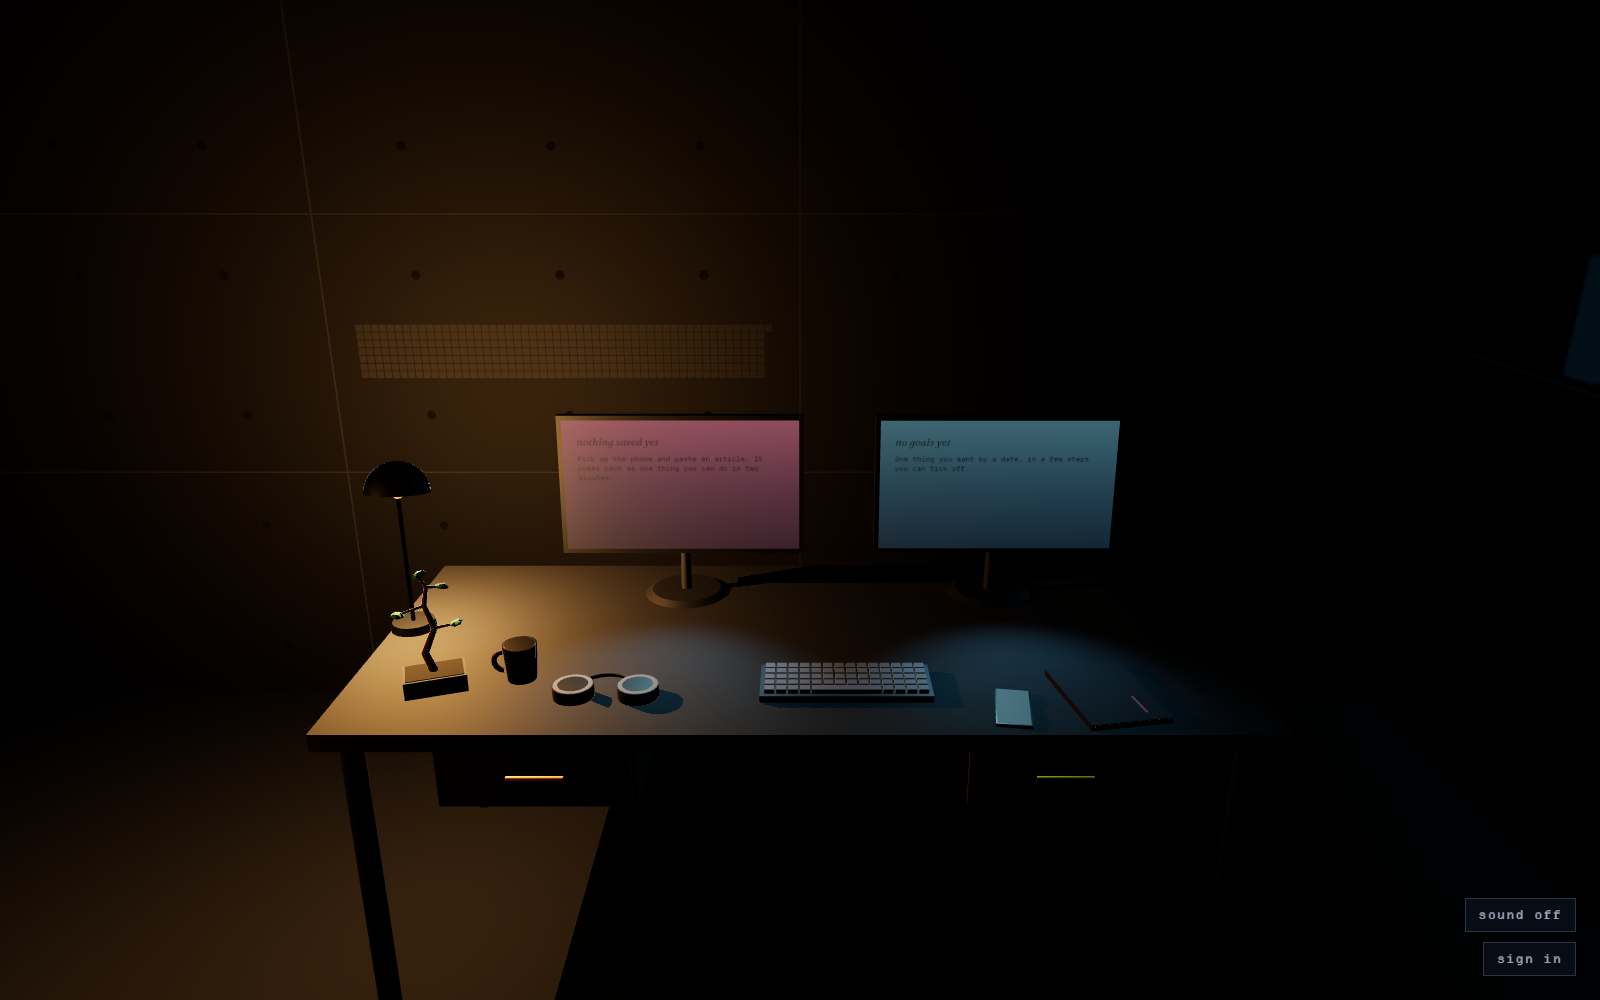
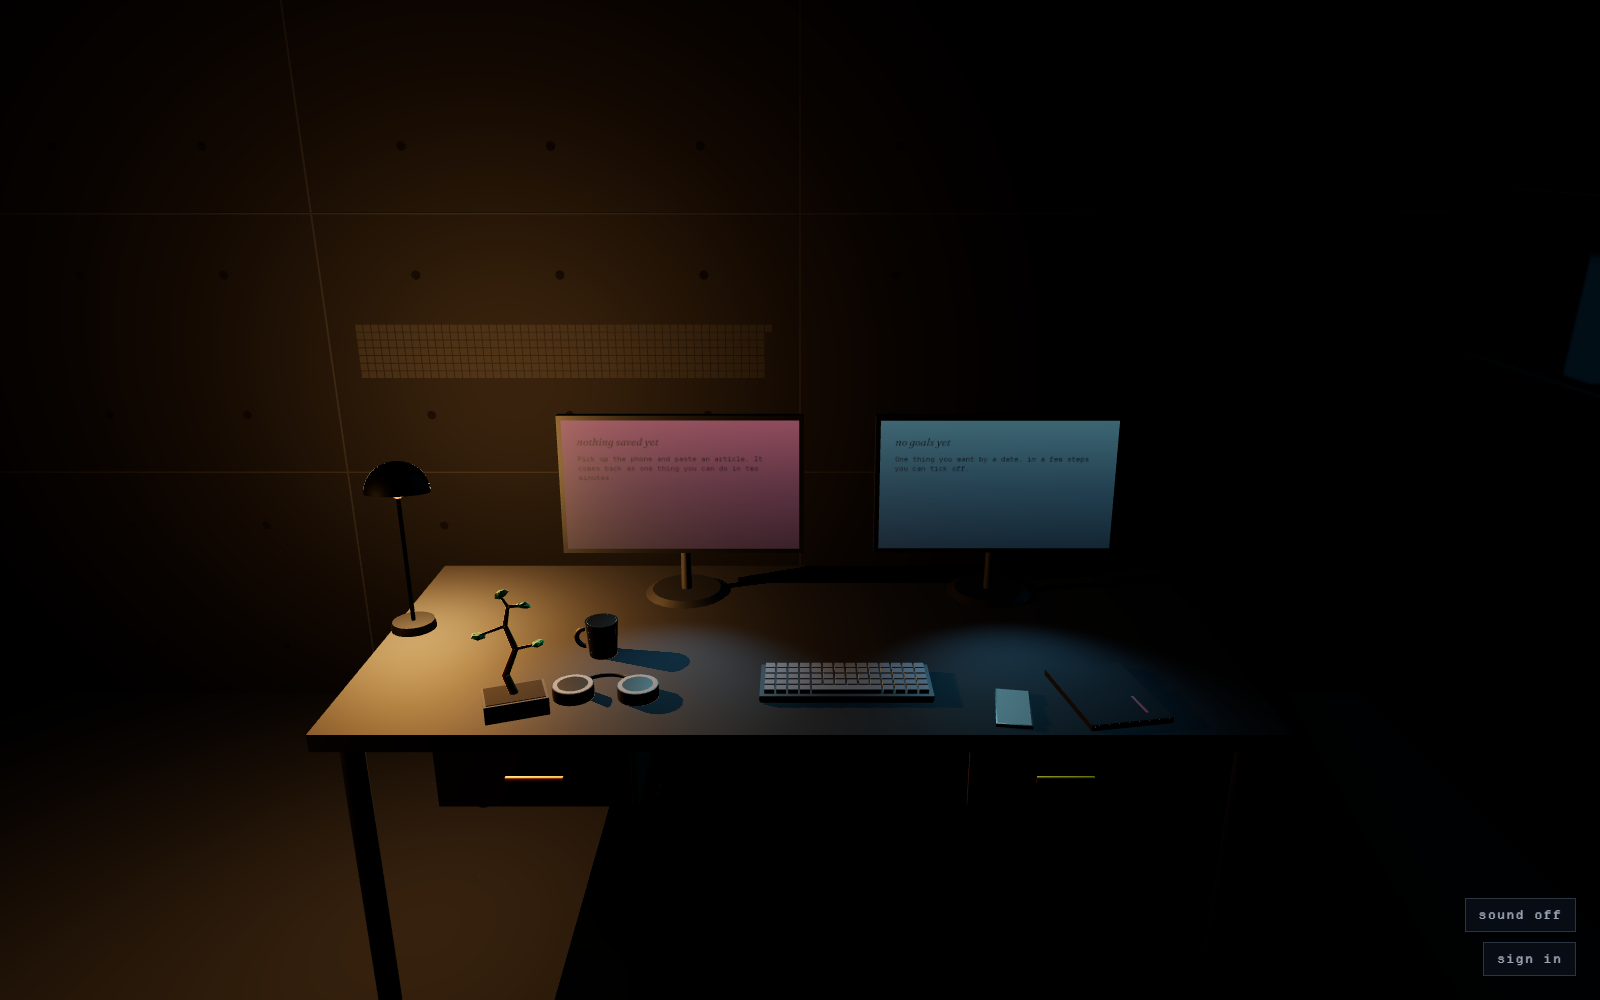
feat(scene): move the bonsai out of the lamp pool (A5.6)
At D-11's spot the tree's top leaves were the pool's hottest pixels and its
pot covered the pool's probe. It now stands right of the lamp beside the
headphones, and the mug sits behind them both, on the owner's pick from
measured candidates. The focus pose follows, and a capture of it joins
the review set.

Changed region(s): [[0.25, 0.558, 0.4375, 0.744]]

diff --git a/scene/cameraPoses.ts b/scene/cameraPoses.ts
@@ -44,10 +44,9 @@ export const FOCUS_POSES: Record<ObjectId, CameraPose> = {
   window: { position: [0.4, 0.9, 0.9], target: [1.98, 1.0, -0.6] },
   door: { position: [-0.4, 0.7, 1.2], target: [-1.4, -0.74, 0.3] },
 
-  // PROPOSED — derived from D-11's position ([-0.8, 0, 0.1], capped at
-  // 0.35 m), not yet tuned against a render. A5.6 may move the tree; the pose
-  // follows it then.
-  bonsai: { position: [-0.95, 0.5, 0.75], target: [-0.8, 0.15, 0.1] },
+  // Follows the tree to its A5.6 spot ([-0.6, 0, 0.2]): the earlier pose,
+  // moved with it, so the view onto the tree is the same.
+  bonsai: { position: [-0.75, 0.5, 0.85], target: [-0.6, 0.15, 0.2] },
   // The 365-day tracker (3.5). Checked against a render with the panel open,
   // 2026-09-28: the whole band sits left of the panel. A closer camera clipped
   // the band and let monitor 1 fill the frame; a lower target did the same.
@@ -88,7 +87,7 @@ export const FOCUS_SUBJECTS: Partial<Record<ObjectId, FocusSubject>> = {
   // GRID_CENTRE, a 1.33 m band (WallGrid.tsx).
   wallGrid: { centre: [-0.75, 0.493, -1.2], width: 1.36 },
   // BONSAI_POSITION; at TREE_SCALE the pads span ~0.2 m, centred ~0.16 m up.
-  bonsai: { centre: [-0.8, 0.16, 0.1], width: 0.22 },
+  bonsai: { centre: [-0.6, 0.16, 0.2], width: 0.22 },
 };
 
 const FILL = 0.8;

diff --git a/scene/objects/Bonsai.tsx b/scene/objects/Bonsai.tsx
@@ -1,7 +1,9 @@
 // 3.6 — the bonsai. D-11 (LOCKED), design-system/12 §3.2, spec/02 F2, spec/05 §3–4.
 //
-// On the desk at [-0.8, 0, 0.1], capped at 0.35 m so it never occludes
-// monitor 1. Primitives only: a shallow pot, a tapered S-curve trunk, four
+// On the desk at [-0.6, 0, 0.2], capped at 0.35 m so it never occludes
+// monitor 1. D-11 placed it at [-0.8, 0, 0.1], in the lamp pool, and its top
+// leaves were the hottest pixels there; A5.6 moved it right of the lamp and
+// forward, beside the headphones, on the owner's pick (D-11 amendment). Primitives only: a shallow pot, a tapered S-curve trunk, four
 // branch pads. Leaves are ONE InstancedMesh of MAX_LEAVES (lib/growth.ts) —
 // one draw call — and `points.leafCount` decides how many are grown.
 //
@@ -36,7 +38,7 @@ import { useAppStore } from '../../lib/stores/app';
 import { useSceneStore } from '../../lib/stores/scene';
 import { BG_VOID, DATA_GREEN, GLOW_COOL, INK_GHOST, LAMP_WARM } from '../../lib/style/colors';
 
-export const BONSAI_POSITION: [number, number, number] = [-0.8, 0, 0.1];
+export const BONSAI_POSITION: [number, number, number] = [-0.6, 0, 0.2];
 
 const POT = { w: 0.15, h: 0.045, d: 0.1 };
 

diff --git a/scene/RoomScene.tsx b/scene/RoomScene.tsx
@@ -163,9 +163,12 @@ export function RoomScene() {
       {/* The keyboard is what the monitor fill lights aim at, so it sits
           between them and forward of the screens. */}
       <Keyboard position={[0.1, KEYBOARD_DROP, 0.1]} />
-      <Mug position={[-0.62, 0, 0.06]} />
-      {/* D-11: the bonsai, on the desk left of the monitors. It grows a leaf per
-          threshold of lifetime points; its numbers are in the habits panel. */}
+      {/* Behind the headphones and the tree, out of the lamp pool: its pale
+          liner under the bulb was the pool's hottest pixel (A5.6). */}
+      <Mug position={[-0.46, 0, -0.06]} />
+      {/* D-11 (amended, A5.6): the bonsai, right of the lamp and forward,
+          beside the headphones. It grows a leaf per threshold of lifetime
+          points; its numbers are in the habits panel. */}
       <InteractiveObject
         id="bonsai"
         label="bonsai"

diff --git a/scripts/capture-states.ts b/scripts/capture-states.ts
@@ -59,6 +59,8 @@ const STATES: SceneState[] = [
   { name: 'room-rest-desktop-reduced-motion', route: '/', viewport: { width: 1600, height: 1000 }, reducedMotion: true },
   { name: 'room-rest-mobile', route: '/', viewport: { width: 390, height: 844 } },
   { name: 'room-window-desktop', route: '/', viewport: { width: 1600, height: 1000 }, activate: 'window' },
+  // The bonsai's focus pose with the habits panel open (A5.6 moved the tree).
+  { name: 'room-bonsai-desktop', route: '/', viewport: { width: 1600, height: 1000 }, activate: 'bonsai' },
   // Mid-dawn: the one band with steam on the mug (A5.3).
   { name: 'room-dawn-desktop', route: '/', viewport: { width: 1600, height: 1000 }, hour: 6 },
   // The daylit window's two extremes (A5.4, D-24 §9): the sky and rim at their
